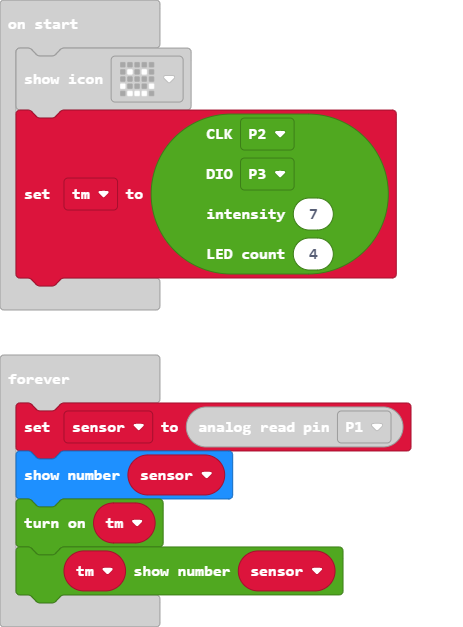
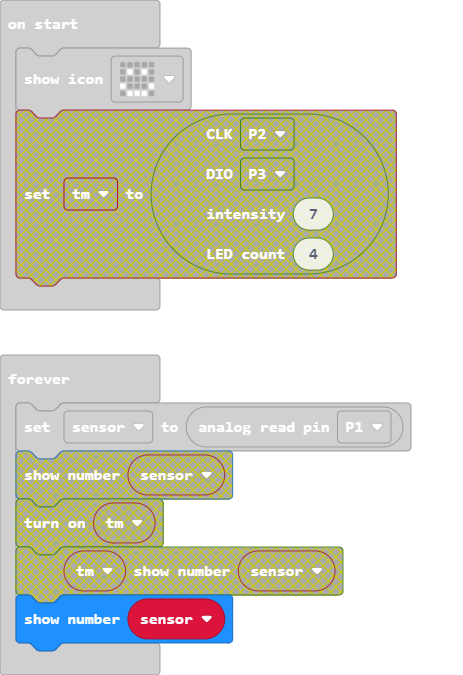
Update main.blocks, main.ts

diff --git a/main.ts b/main.ts
@@ -1,14 +1,6 @@
 let sensor = 0
 basic.showIcon(IconNames.Happy)
-let tm = TM1637.create(
-DigitalPin.P2,
-DigitalPin.P3,
-7,
-4
-)
 basic.forever(function () {
     sensor = pins.analogReadPin(AnalogPin.P1)
     basic.showNumber(sensor)
-    tm.on()
-    tm.showNumber(sensor)
 })
